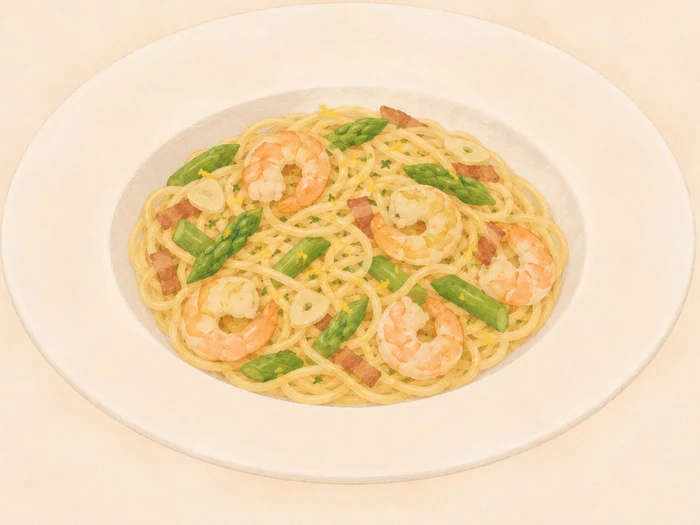
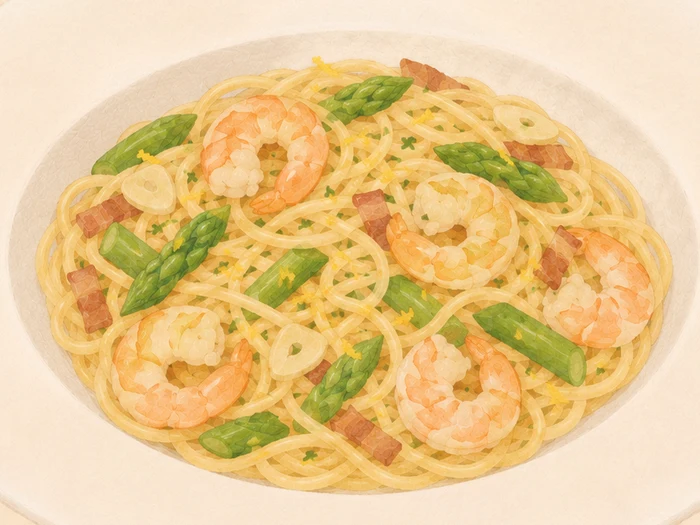
義式取景改用「凹陷圈」當錨點：圈寬貼滿畫面、圈垂直置中
前三次都對不齊，因為我一直錨在「食物」上 —— 試過食物的高度、面積、寬度、
位置四種。但食物在盤子裡的佔比每張原圖都不同，錨食物就代表盤子必然亂。

使用者指出正確的錨點是**盤子的凹陷圈**：那是盤子的結構、不是內容物，
在每張圖裡代表同一個東西，對齊它五張就自動同尺度。

規則（照 r17 米蘭燉飯反推出來的）：
  · 凹陷圈的寬度 ≈ 畫面寬的 98%（左右幾乎貼到邊）
  · 凹陷圈垂直置中（上下距離差 ≤1%）

偵測法：凹陷圈比底色暗（有陰影）或有顏色（食物），盤緣則等於／亮於底色 ——
取最大連通塊就是那一圈。腳本見 scratchpad/wellcut.py 的 wellbox()。

改前 → 改後（圈寬 / 上下差）：
  米蘭燉飯     100% / 3   →  98% / 1
  阿馬特里恰納   91% / 10  →  98% / 1
  蘆筍菌菇      70% / 5   →  98% / 1
  鮮蝦蘆筍      68% / 6   →  98% / 0
  蒜香橄欖油     72% / 12  →  96% / 1

ASSETS 61 → 62

diff --git a/index.html b/index.html
@@ -783,7 +783,7 @@ ol.steps li::before {
    ══════════════════════════════════════════════ */
 
 /* 素材版本。換過圖就 bump 一次，否則瀏覽器會一直用舊的快取 */
-const ASSETS = '61';
+const ASSETS = '62';
 const asset = p => p + '?v=' + ASSETS;
 
 const $ = (s, el = document) => el.querySelector(s);
